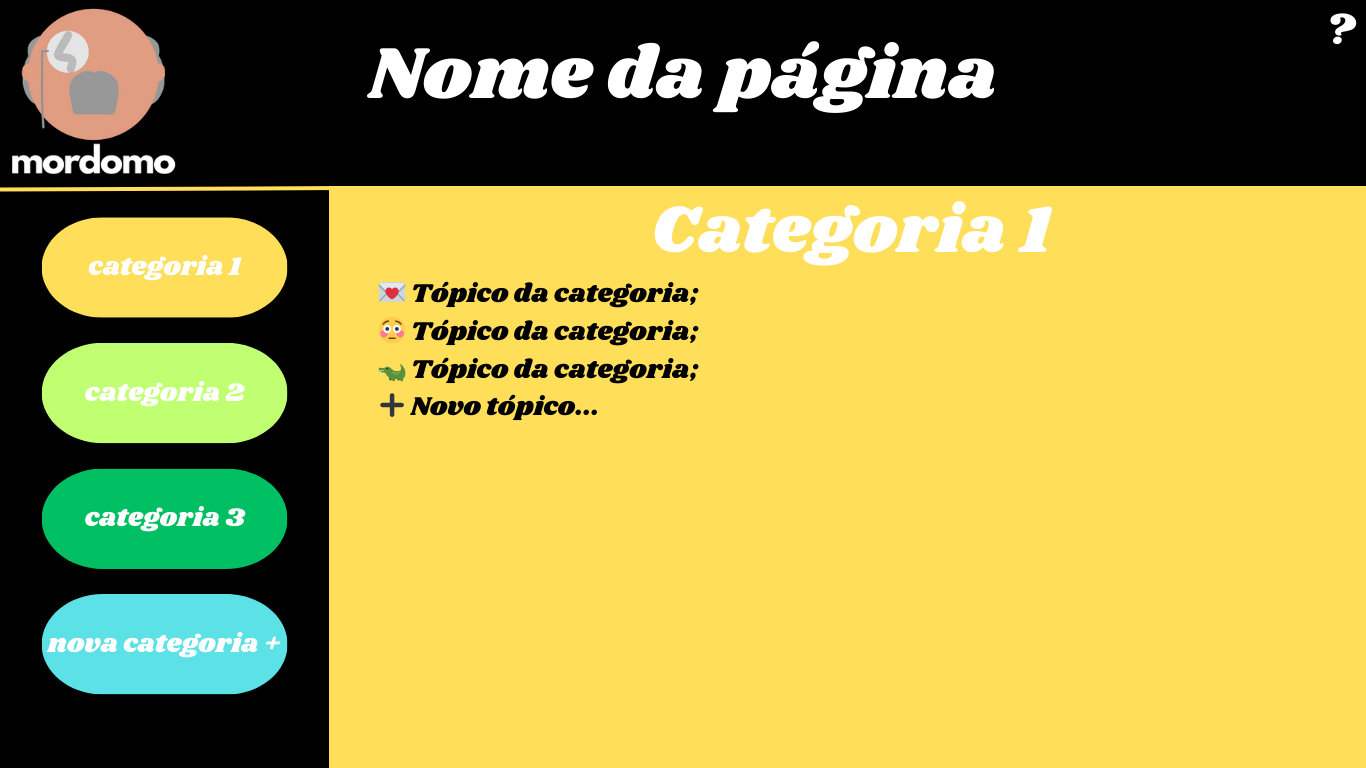
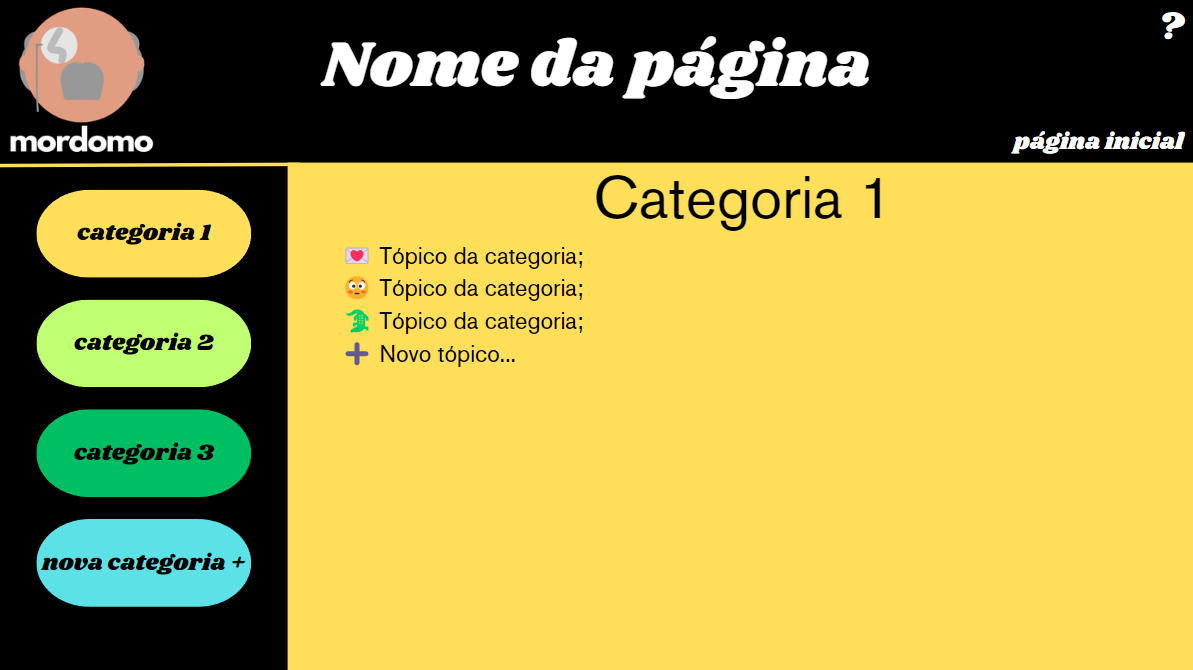
design e tela inicial

diff --git a/style.css b/style.css
@@ -1,0 +1,158 @@
+html,
+body {
+    min-height: 100%;
+}
+
+body {
+    display: grid;
+    grid-template-rows: 27% 120%;
+    grid-template-columns: 20% 80%;
+    gap: 3px 0px;
+    margin: 0%;
+    font-family: 'Space Grotesk', sans-serif;
+    background-color: rgb(255, 238, 0);
+}
+
+body ::selection,
+body::selection {
+    color: rgb(255, 255, 255);
+    background: gray;
+}
+
+header {
+    background-color: black;
+    margin-top: -2.5%;
+    font-family: 'Shrikhand', cursive;
+    color: white;
+    grid-row: 1/2;
+    grid-column: 1/3;
+}
+
+header ul {
+    padding-left: 0%;
+}
+
+header li {
+    display: inline-block;
+    margin-left: 2%;
+    font-size: 200%;
+}
+
+header a:hover {
+    color: rgb(105, 105, 105);
+}
+
+header a:active {
+    color: black;
+}
+
+header a {
+    color: white;
+    text-decoration: none;
+}
+
+.logo {
+    height: 186.1px;
+    width: 186.1px;
+    margin-top: 35px;
+    clear: none;
+    margin-left: -11%;
+}
+
+.pg-inicial-link {
+    margin-left: 19%;
+    font-size: 160%;
+}
+
+.titulo-pg {
+    font-size: 410%;
+    margin-left: 10%;
+}
+
+.sublinhado {
+    text-decoration: underline;
+}
+
+.interrogacao {
+    float: right;
+    position: sticky;
+    right: 1%;
+    top: 2%;
+}
+
+section{
+    grid-row: 2/3;
+    grid-column: 1/2;
+    background-color: black;
+}
+
+main {
+    grid-row: 2/3;
+    grid-column: 2/3;
+    text-align: center;
+}
+
+button {
+    display: block;
+    margin-top: 5%;
+    transition: background-color 0.5s ease;
+    border-radius: 30%;
+    font-family: 'Space Grotesk', sans-serif;
+    font-size: 300%;
+    margin-left: 15%;
+    width: 65%;
+}
+
+#b1 {
+   background-color: rgb(24, 94, 224); 
+   color: rgb(8, 48, 122);
+   border: 1px solid rgb(24, 94, 224);
+}
+
+#b1:hover {
+    background-color: rgb(24, 224, 74);
+    color: green;
+    border: 1px solid rgb(24, 224, 74);
+}
+
+#b2{
+    background-color: greenyellow;
+    border: 1px greenyellow;
+    color: green;
+}
+
+#b2:hover{
+    background-color: yellow;
+    color: rgb(102, 102, 4);
+    border: 1px solid yellow;
+}
+
+#b3{
+   background-color: #FFDE59;
+    border: 1px #FFDE59 solid;
+    color: #b18f07; 
+}
+
+#b3:hover{
+    background-color: #ffa908;
+    color: #94640c;
+    border: 1px #ffa908 solid;
+}
+
+#b4{
+    background-color: orange;
+    color: rgb(119, 81, 10);
+    border: 1px solid orange;
+}
+
+#b4:hover{
+    background-color: orangered;
+    color: rgb(97, 33, 10);
+    border: 1px solid orangered;
+}
+
+main img{
+    margin-top: 13px;
+    width: 500px;
+    height: 500px;
+}

diff --git a/index.html b/index.html
@@ -4,10 +4,36 @@
 <head>
     <meta charset="UTF-8">
     <meta name="viewport" content="width=device-width, initial-scale=1.0">
-    <title>Document</title>
+    <title>Mordomo</title>
+    <link rel="stylesheet" type="text/css" href="style.css" />
+    <link rel="shortcut icon" href="imagens/mordomo_icon.png">
+    <link rel="preconnect" href="https://fonts.googleapis.com">
+    <link rel="preconnect" href="https://fonts.gstatic.com" crossorigin>
+    <link href="https://fonts.googleapis.com/css2?family=Shrikhand&family=Space+Grotesk&display=swap" rel="stylesheet">
+    <link rel="preconnect" href="https://fonts.googleapis.com">
+    <link rel="preconnect" href="https://fonts.gstatic.com" crossorigin>
+    <link href="https://fonts.googleapis.com/css2?family=Shrikhand&family=Space+Grotesk&display=swap" rel="stylesheet">
 </head>
 
 <body>
+    <header>
+        <ul>
+            <li class="interrogacao"><a href="">?</a></li>
+            <li><img class="logo" src="imagens/mordomo_logo.png"></li>
+            <li class="titulo-pg">Como posso te ajudar?</li>
+            <li class="pg-inicial-link sublinhado"><a href="index.html">Página inicial</a></li>
+            
+        </ul>
+    </header>
+    <section>
+        <button id="b1">Deveres</button>
+        <button id="b2">Provas</button>
+        <button id="b3">Livros</button>
+        <button id="b4">Criadores</button>
+    </section>
+    <main>
+        <img src="imagens/mordomo_background.png">
+    </main>
     <link rel="stylesheet" href="jquery-ui.min.css">
     <script src="external/jquery/jquery.js"></script>
     <script src="jquery-ui.min.js"></script>
